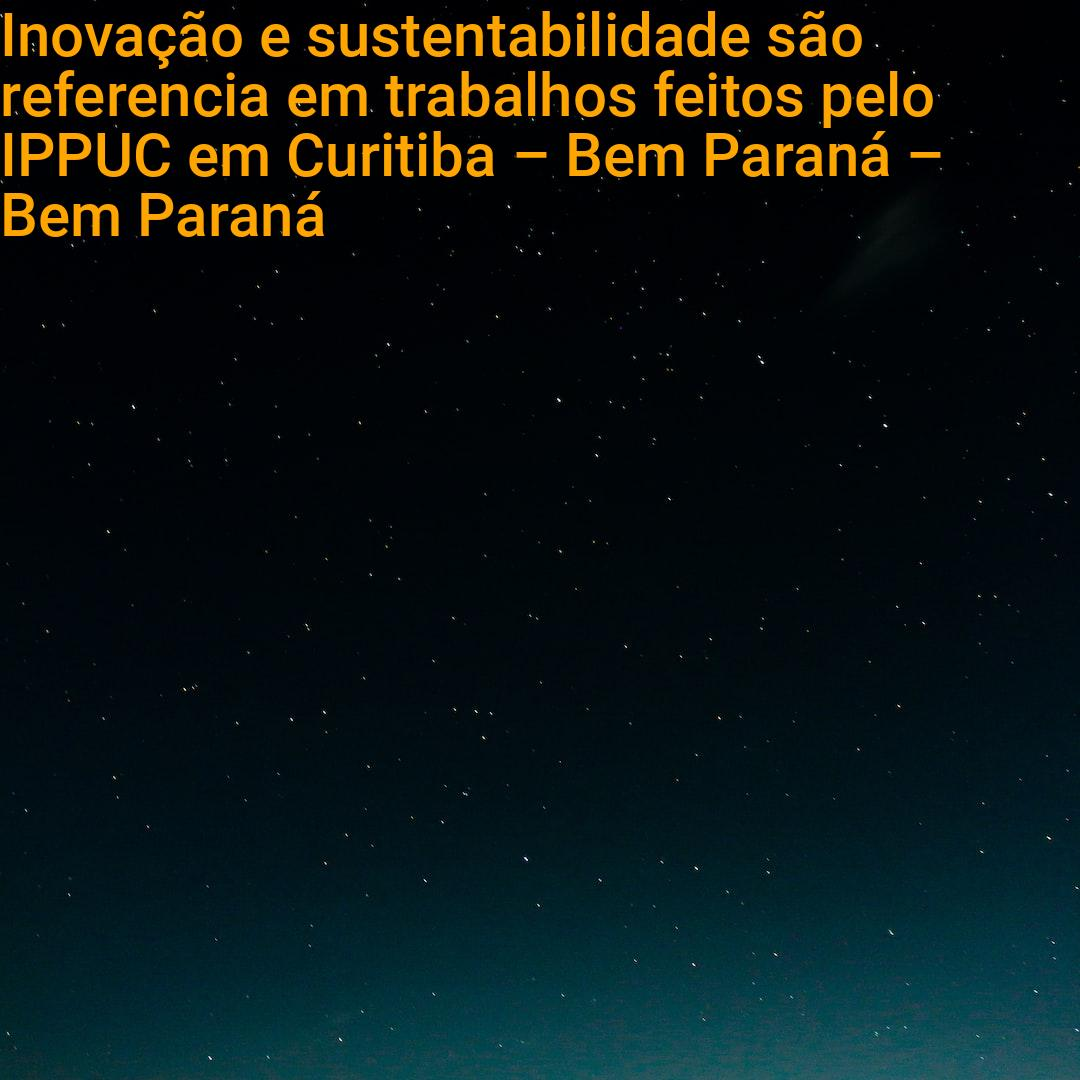
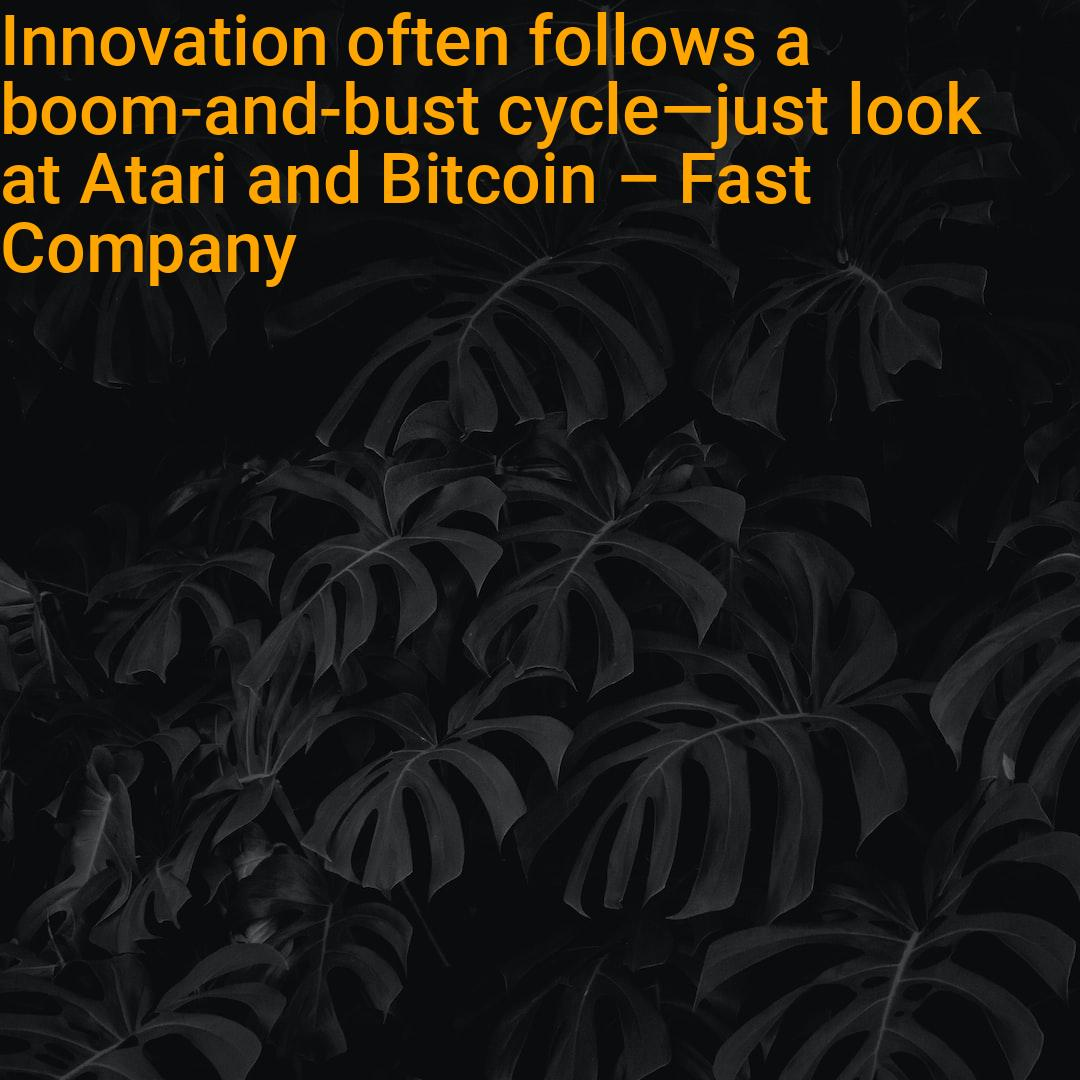
fsdfsfsd

diff --git a/time_bot.py b/time_bot.py
@@ -31,11 +31,13 @@ corpo = d['entries'][value]['description']
 
 corpo = corpo.replace("[&#8230;]", "...")
 
-text = '\n\n' + titulo + '\n\n' + corpo + '\n\nfonte: https://sucesso.hmr1973.com/ \n\nFollow me @hmr1973maia \n\n#bigdata #weworklabs #entrepreneur #innovation #cycling #datascience #innovation #technology #tech #design #business #engineering #startup #entrepreneur #science #entrepreneurship #future #marketing #creativity #architecture #sustainability #inspiration #ai #art #gadgets #digital #motivation #automation'
+text = '\n\n' + titulo + '\n\n' + corpo + '\n\nfonte: https://sucesso.hmr1973.com/ \n\nFollow me @hmr1973maia \n\n#bigdata #innovation #cycling #datascience #technology #tech #design #business #entrepreneur #entrepreneurship #future #marketing #creativity #sustainability #inspiration #gadgets #digital #motivation #automation'
 
-font = ImageFont.truetype("Roboto-Medium.ttf", 60)
+print(text)
 
-textwrapped = textwrap.wrap(titulo, width=35)
+font = ImageFont.truetype("Roboto-Medium.ttf", 70)
+
+textwrapped = textwrap.wrap(titulo, width=30)
 draw.text((0,0), '\n'.join(textwrapped), font=font, fill="#FFA500")
 
 img.save('cur_time.jpg')
